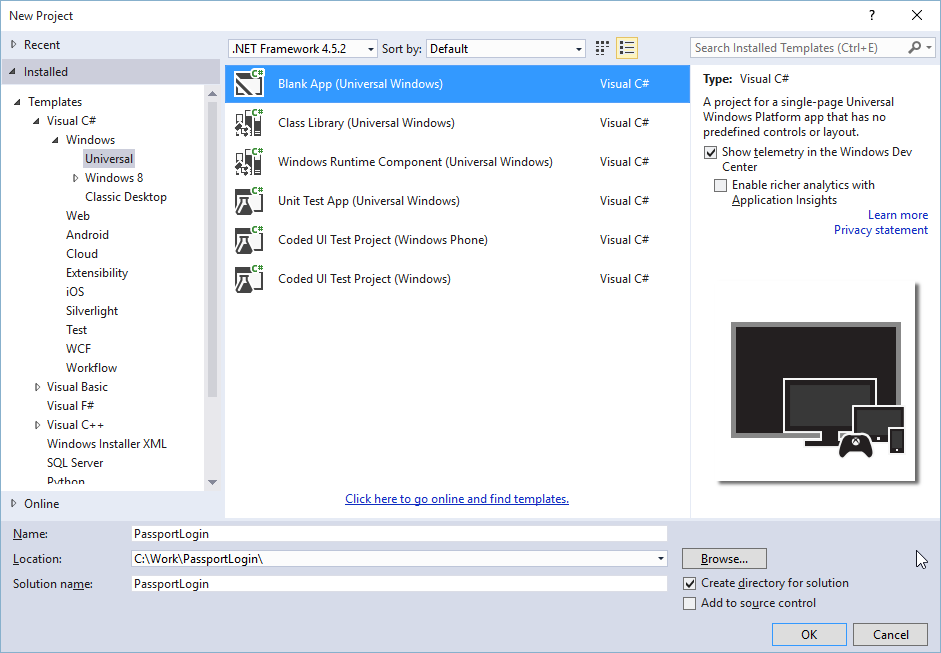
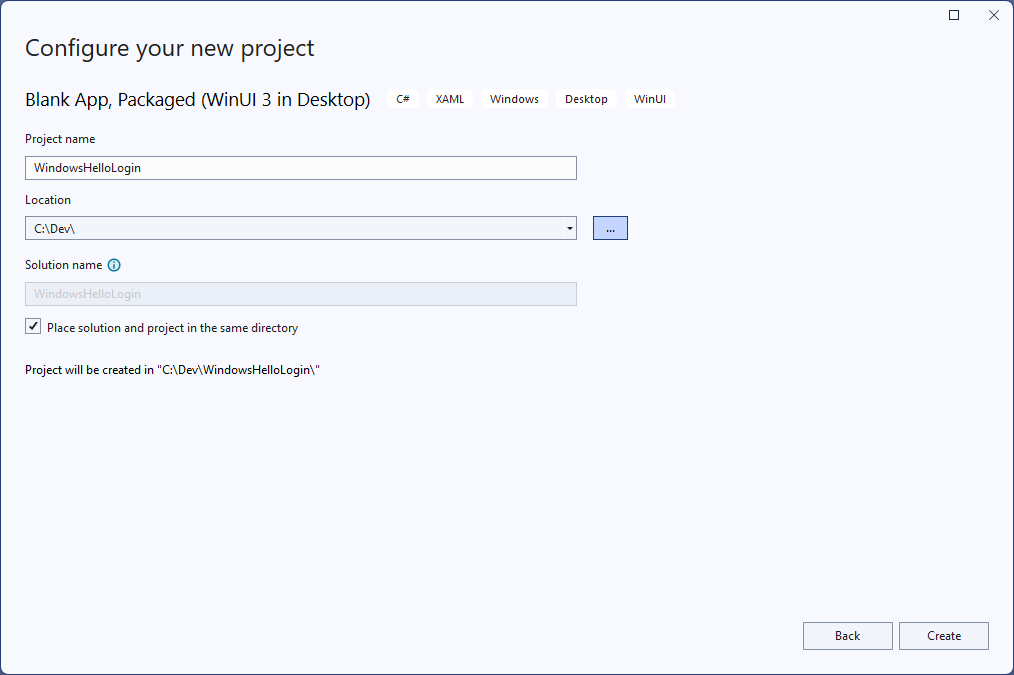
Update initial screenshots and add page nav

diff --git a/hub/apps/develop/security/windows-hello-login.md b/hub/apps/develop/security/windows-hello-login.md
@@ -33,10 +33,41 @@ In this exercise you will learn how to check if Windows Hello is setup on the ma
 
     ![A screenshot of adding a new folder named Views to the Windows Hello Login project](images/windows-hello-login-2.png)
 
-- Right-click the new **Views** folder, select **Add** > **New Item** and select the **Blank Page** template. Name this page "Login.xaml".
+- Open MainWindow.xaml and replace the `Window` contents with an empty `StackPanel` or `Grid` control. We will be implementing page navigation and navigating to a new page when the **MainWindow** is loaded, so we don't need any content in the **MainWindow**.
+- Remove the myButton_Click event handler from MainWindow.xaml.cs to avoid any compilation errors. This event handler is not needed for this sample.
+- Right-click the new **Views** folder, select **Add** > **New Item** and select the **Blank Page** template. Name this page "MainPage.xaml".
 
     ![A screenshot of adding a new Blank Page to the Windows Hello Login project](images/windows-hello-login-3.png)
 
+- Open the App.xaml.cs file and update the **OnLaunched** handler to implement page navigation for the app. You'll also need to add a **RootFrame_NavigationFailed** handler method to deal with any errors that occur while loading pages.
+
+    ```cs
+    protected override void OnLaunched(Microsoft.UI.Xaml.LaunchActivatedEventArgs args)
+    {
+        m_window = new MainWindow();
+        var rootFrame = new Frame();
+        rootFrame.NavigationFailed += RootFrame_NavigationFailed;
+        rootFrame.Navigate(typeof(MainPage), args);
+        m_window.Content = rootFrame;
+        m_window.Activate();
+    }
+
+    private void RootFrame_NavigationFailed(object sender, NavigationFailedEventArgs e)
+    {
+        throw new Exception($"Error loading page {e.SourcePageType.FullName}");
+    }
+    ```
+
+- You'll also need to add four using statements to the top of the App.xaml.cs file to resolve compilation errors in the code.
+
+    ```cs
+    using Microsoft.UI.Xaml.Controls;
+    using Microsoft.UI.Xaml.Navigation;
+    using System;
+    using WindowsHelloLogin.Views;
+    ```
+
+- Right-click the new **Views** folder, select **Add** > **New Item** and select the **Blank Page** template. Name this page "Login.xaml".
 - To define the user interface for the new login page, add the following XAML. This XAML defines a `StackPanel` to align the following children:
 
   - A `TextBlock` that will contain a title.
